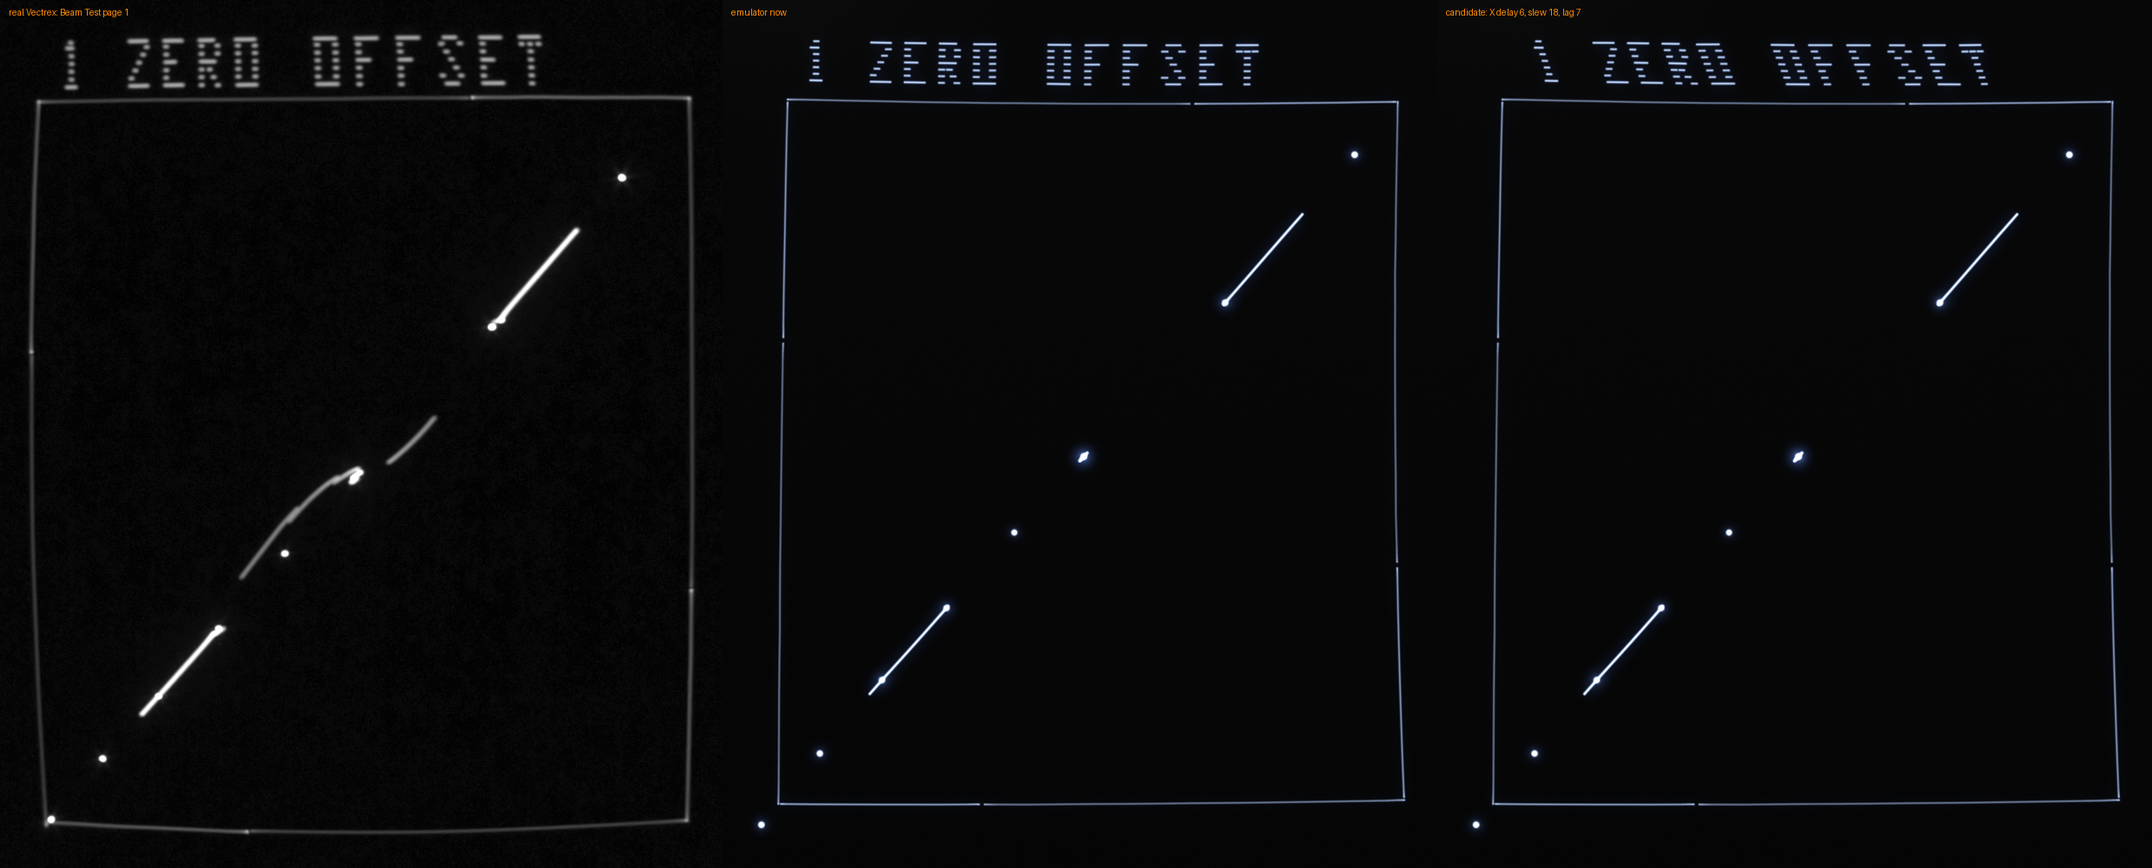
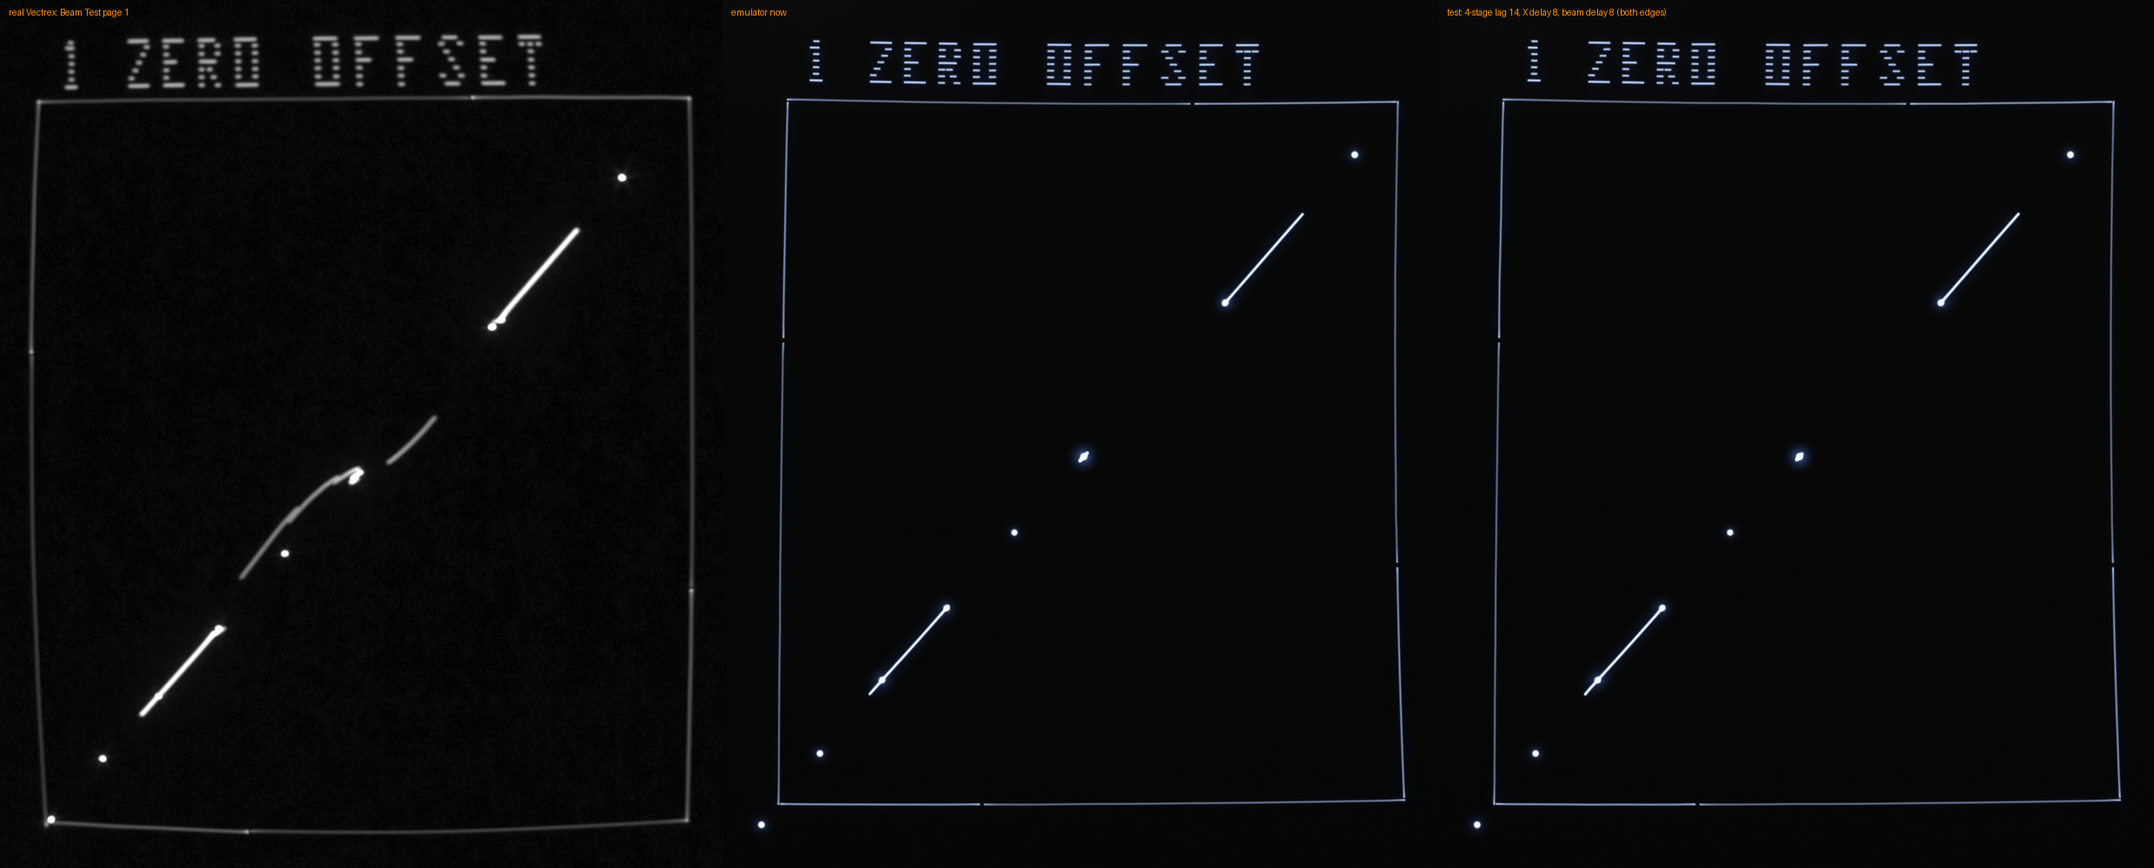
Core, test switches (off): VT_DEFLAGN up to 6 equal lag stages, VT_LAGBOX (a box-shaped response); VT_DEFLAGN is read where the unit's setting gives the lag. tools/photo_match: corner roundness and the Gap Test's joins measured on rendered frames as on the photos (cornerm, gapm, cgrid) - the Corner 

Changed region(s): [[0.6836, 0.0, 0.9322, 0.124], [0.3418, 0.0, 0.3729, 0.031]]

diff --git a/tools/photo_match/cornerm.py b/tools/photo_match/cornerm.py
@@ -1,0 +1,58 @@
+"""a corner's roundness measured on a picture - the owner's photo and the emulator's rendered frame alike:
+the figure's ridge, a straight line through each leg's outer part, their meeting point I; cut = the ridge's nearest
+distance to I, as a share of the leg's length (0 = sharp). The render is blurred to the photo's line width first."""
+import numpy as np
+from scipy import ndimage as nd
+def figures(img, roi, thr=0.25, minpix=150):
+    """connected figures inside roi (y0, y1, x0, x1): list of (cy, cx, sub-image, origin)"""
+    y0, y1, x0, x1 = roi; g = img[y0:y1, x0:x1]; s = nd.gaussian_filter(g, 1.5); m = s > thr * np.percentile(s, 99.5)
+    m = nd.binary_dilation(m, iterations=3); lab, n = nd.label(m); out = []
+    for i, sl in enumerate(nd.find_objects(lab)):
+        if (lab[sl] == i + 1).sum() < minpix: continue
+        a, b = sl; pad = 12; ya, yb, xa, xb = max(0, a.start - pad), min(g.shape[0], a.stop + pad), max(0, b.start - pad), min(g.shape[1], b.stop + pad)
+        sub = g[ya:yb, xa:xb] * (nd.binary_dilation(lab[ya:yb, xa:xb] == i + 1, iterations=8))
+        out.append(((ya + yb) / 2 + y0, (xa + xb) / 2 + x0, sub, (ya + y0, xa + x0)))
+    return out
+def ridge(sub, thr=0.15):
+    s = nd.gaussian_filter(sub, 1.2); m = s > thr * s.max()
+    gy, gx = np.gradient(nd.gaussian_filter(sub, 2.5))
+    Jxx = nd.gaussian_filter(gx * gx, 3); Jyy = nd.gaussian_filter(gy * gy, 3); Jxy = nd.gaussian_filter(gx * gy, 3)
+    ang = 0.5 * np.arctan2(2 * Jxy, Jxx - Jyy); horiz = abs(np.cos(ang)) > abs(np.sin(ang))
+    hx = (s >= np.roll(s, 1, 1)) & (s >= np.roll(s, -1, 1)); hy = (s >= np.roll(s, 1, 0)) & (s >= np.roll(s, -1, 0))
+    yy, xx = np.nonzero(m & np.where(horiz, hx, hy))
+    # sub-pixel: the parabola's top across the line
+    X = xx.astype(float); Y = yy.astype(float)
+    for k in range(len(xx)):
+        y, x = yy[k], xx[k]
+        if 0 < x < s.shape[1] - 1 and 0 < y < s.shape[0] - 1:
+            if horiz[y, x]: a, b, c = s[y, x - 1], s[y, x], s[y, x + 1]; d = a - 2 * b + c; X[k] += 0.5 * (a - c) / d if d < 0 else 0
+            else: a, b, c = s[y - 1, x], s[y, x], s[y + 1, x]; d = a - 2 * b + c; Y[k] += 0.5 * (a - c) / d if d < 0 else 0
+    return np.stack([X, Y], 1), s[yy, xx]
+def tls(P):
+    c = P.mean(0); u, s, vt = np.linalg.svd(P - c); return c, vt[0]
+def measure(sub, far=0.5):
+    P, w = ridge(sub)
+    if len(P) < 30: return None
+    # the ends: the two ridge points farthest apart (via the hull's extremes along the main axes)
+    c, d = tls(P); t = (P - c) @ d; A = P[np.argmin(t)]; B = P[np.argmax(t)]
+    n = np.array([-(B - A)[1], (B - A)[0]]); n /= np.linalg.norm(n); h = (P - A) @ n
+    C = P[np.argmax(abs(h))]
+    if abs(h).max() < 0.04 * np.linalg.norm(B - A): return dict(cut=0.0, leg=np.linalg.norm(B - A) / 2, angle=180.0, width=width(sub, P))
+    out = []
+    for E in (A, B):
+        ax = (E - C); L = np.linalg.norm(ax); ax /= L; s_ = (P - C) @ ax; perp = abs((P - C) @ np.array([-ax[1], ax[0]]))
+        m = (s_ > far * L) & (perp < 0.35 * L)
+        if m.sum() < 6: return None
+        out.append(tls(P[m]))
+    (c1, d1), (c2, d2) = out
+    M = np.array([d1, -d2]).T
+    if abs(np.linalg.det(M)) < 1e-6: return None
+    k = np.linalg.solve(M, c2 - c1); I = c1 + k[0] * d1
+    cut = np.hypot(*(P - I).T).min(); leg = 0.5 * (np.linalg.norm(A - I) + np.linalg.norm(B - I))
+    ang = np.degrees(np.arccos(np.clip(abs(d1 @ d2), 0, 1)))
+    return dict(cut=cut, leg=leg, angle=ang, width=width(sub, P), I=I, A=A, B=B, la=np.linalg.norm(A - I), lb=np.linalg.norm(B - I))
+def width(sub, P):
+    """the line's full width at half height (px): the picture's light per ridge length / its peak"""
+    s = nd.gaussian_filter(sub, 0.7); pk = np.median([s[int(round(y)), int(round(x))] for x, y in P[::3]])
+    # area of the pixels above half the ridge's level / the ridge's length
+    ln = max(len(P), 1) * 1.0; return (s > 0.5 * pk).sum() / ln * 1.0

diff --git a/src/core/vecx.c b/src/core/vecx.c
@@ -1858,7 +1858,10 @@ static void alg_sstep_full (void)
 	alg_curr_y += sig_dy;
 	prot_step (sig_blank == 1 && (alg_zsh & 0x80) == 0 && (alg_zsh & 0x7f) != 0);   /* (the deflection protect: see prot_step) */
 	alg_cycles++;
-	if (vt_lag < 0) { const char *z = getenv ("VT_DEFLAG"); vt_lag = z ? atof (z) : LAG_TAU; z = getenv ("VT_DEFLAGN"); vt_lag_n = z ? atoi (z) : LAG_N; z = getenv ("VT_DEFLAGSPLIT"); if (z) lag_split_k = atof (z); }
+	{ static int lag_env; static double lag_force = -1;      /* (VT_DEFLAG / VT_DEFLAGN given: they win over the frontend's unit
+	   * setting (analog 9) - tests in the app and the libretro core, where the setting arrived first and the variables were never read) */
+	  if (!lag_env) { const char *z = getenv ("VT_DEFLAG"); lag_env = 1; if (z) lag_force = atof (z); z = getenv ("VT_DEFLAGN"); vt_lag_n = z ? atoi (z) : LAG_N; z = getenv ("VT_DEFLAGSPLIT"); if (z) lag_split_k = atof (z); }
+	  if (lag_force >= 0) vt_lag = lag_force; else if (vt_lag < 0) vt_lag = LAG_TAU; }
 	if (vt_lag_y < -1.5) { const char *z = getenv ("VT_DEFLAGY"); vt_lag_y = z ? atof (z) : LAG_TAU_Y; }
 	if (ofs_k < 0) { const char *z = getenv ("VT_OFSK"); ofs_k = z ? atof (z) : OFS_K; }
 	{ double ox = beam_x, oy = beam_y;
@@ -1868,12 +1871,29 @@ static void alg_sstep_full (void)
 	  double tx = alg_curr_x - sh, ty = alg_curr_y + sh;
 	  double lx = vt_lag, ly = vt_lag_y >= 0 ? vt_lag_y : vt_lag;
 	  if (lx > 0.05 || ly > 0.05) {
-		int n = vt_lag_n == 2 ? 2 : 1;
+		int n = vt_lag_n < 1 ? 1 : vt_lag_n > 6 ? 6 : vt_lag_n;   /* (VT_DEFLAGN: 1 - 6 equal stages; 3 and more: tests) */
 		double kx = lx > 0.05 ? kexp (&km_mlx, (double) n, lx) : 1.0;   /* (each stage tau / n) */
 		double ky = ly > 0.05 ? kexp (&km_mly, (double) n, ly) : 1.0;
+		static double bx_d = -2, bx_w, bx_t; static double rx[256], ry[256], bsx, bsy, box, boy; static unsigned rp; static int rinit;
+		if (bx_d < -1) { const char *z = getenv ("VT_LAGBOX"); bx_d = -1; if (z) { bx_t = 0; sscanf (z, "%lf,%lf,%lf", &bx_d, &bx_w, &bx_t); if (bx_w < 1) bx_w = 1; if (bx_w > 200) bx_w = 200; if (bx_d > 50) bx_d = 50; } }
+		if (bx_d >= 0) {   /* VT_LAGBOX=delay,width[,tau] (a test): the spot = the integrators' place averaged over `width` cycles, `delay`
+		                    * cycles ago (a response that is over after delay + width), then a short first-order lag tau */
+			int d = (int) bx_d, w = (int) bx_w;
+			if (!rinit) { rinit = 1; for (int i = 0; i < 256; i++) { rx[i] = tx; ry[i] = ty; } bsx = tx * w; bsy = ty * w; box = tx; boy = ty; }
+			rx[rp & 255] = tx; ry[rp & 255] = ty;
+			bsx += rx[(rp - d) & 255] - rx[(rp - d - w) & 255]; bsy += ry[(rp - d) & 255] - ry[(rp - d - w) & 255]; rp++;
+			if ((rp & 1023) == 0) { bsx = bsy = 0; for (int i = 1; i <= w; i++) { bsx += rx[(rp - d - i) & 255]; bsy += ry[(rp - d - i) & 255]; } }   /* (no drift) */
+			{ double k = bx_t > 0.05 ? 1.0 - exp (-1.0 / bx_t) : 1.0; box += (bsx / w - box) * k; boy += (bsy / w - boy) * k; }
+			beam_x = beam_x1 = box; beam_y = beam_y1 = boy;
+		} else
 		if (n == 2) {
 			beam_x1 += (tx - beam_x1) * kx; beam_y1 += (ty - beam_y1) * ky;
 			beam_x += (beam_x1 - beam_x) * kx; beam_y += (beam_y1 - beam_y) * ky;
+		} else if (n > 2) {
+			static double sx[6], sy[6]; static int sinit;
+			if (!sinit) { sinit = 1; for (int i = 0; i < 6; i++) { sx[i] = tx; sy[i] = ty; } }
+			{ double ix = tx, iy = ty; for (int i = 0; i < n; i++) { sx[i] += (ix - sx[i]) * kx; sy[i] += (iy - sy[i]) * ky; ix = sx[i]; iy = sy[i]; }
+			  beam_x = ix; beam_y = iy; beam_x1 = sx[0]; beam_y1 = sy[0]; }
 		} else {
 			beam_x += (tx - beam_x) * kx; beam_y += (ty - beam_y) * ky;
 		}

diff --git a/tools/photo_match/cgrid.py b/tools/photo_match/cgrid.py
@@ -1,0 +1,42 @@
+"""the Corner Test on rendered frames (the libretro core) over settings: cut / leg and second / first leg by rest, against the photo"""
+import os, sys, subprocess, numpy as np, json
+from concurrent.futures import ThreadPoolExecutor
+import cornerm_run as R
+PH_CUT = [0.122, 0.120, 0.105, 0.073, 0.044, 0.003, 0.0, 0.0]; PH_RAT = [0.66, 0.64, 0.60, 0.57, 0.58, 0.58, 0.61, 0.59]
+def tag(c): return 'c_' + '_'.join('%s%s' % (k, str(v).replace('.', 'p')) for k, v in sorted(c.items()))
+PH_DOTS = np.array([10] * 8)
+PH_DIP = [0.060, 0.051, 0.058, 0.075, 0.099, 0.132, 0.171, 0.067]
+def gap_row(t):
+    import gapm
+    a = np.load('sl_gap_p1_%s.npy' % t).max(2).astype(np.float32) / 255
+    try: m = gapm.measure(a, blur=2.0); return [x[1] for x in m], [x[3] for x in m]
+    except Exception: return [np.nan] * 8, [0] * 8
+def render(c, only='corner,gap_p1'):
+    t = tag(c)
+    if all(os.path.exists('sl_%s_%s.npy' % (o, t)) for o in only.split(',')): return t
+    e = dict(os.environ); e['ONLY'] = only; e['VT_XYZDLY'] = '%d,%d,8' % (c.get('x', 9), c.get('y', 9)); e['VT_DEFLAGN'] = str(c.get('n', 1))
+    if 'z' in c: e['VT_ZDELAY'] = str(c['z'])
+    if 'bd' in c: e['VT_LAGBOX'] = '%g,%g,%g' % (c['bd'], c['bw'], c.get('bt', 0))
+    if 'xs' in c: e['VT_XSLEW'] = str(c['xs'])
+    if 'ramp' in c: e['VT_RAMPDLY'] = c['ramp']
+    e['LROPT'] = 'vectrex_emu_unit_lagx=%.1f,vectrex_emu_unit_lagy=%.1f' % (c.get('l', 6), c.get('l', 6)) + (',vectrex_emu_unit_beamoff=%.1f' % c['bo'] if 'bo' in c else '')
+    subprocess.run([sys.executable, 'renall2.py', t], env=e, capture_output=True); return t
+def corner_row(t):
+    a = np.load('sl_corner_%s.npy' % t).max(2).astype(np.float32) / 255
+    r = R.row_table(a, (770, 905, 150, 1060), 10, 'x', t)
+    cut = [x['cut'] / x['leg'] if x else np.nan for x in r][:8]; rat = [R.ratio(x, False) if x and 'A' in x else np.nan for x in r][:8]
+    return cut, rat
+def score(cut, rat):
+    c = np.array(cut) - PH_CUT; q = np.array(rat) - PH_RAT
+    return float(np.sqrt(np.nanmean(c ** 2))), float(np.sqrt(np.nanmean(q[:6] ** 2)))
+if __name__ == '__main__':
+    cfgs = eval(sys.argv[1])
+    with ThreadPoolExecutor(4) as ex: tags = list(ex.map(render, cfgs))
+    out = []
+    for c, t in zip(cfgs, tags):
+        cut, rat = corner_row(t); sc = score(cut, rat); dip, dots = gap_row(t); dg = float(np.sqrt(np.nanmean((np.array(dip) - PH_DIP) ** 2))) if len(dip) == 8 else 9.9
+        dd = float(np.mean(np.abs(np.clip(np.array(dots), 0, 10) - PH_DOTS))); out.append((sc[0] / 0.013 + sc[1] / 0.05 + dg / 0.02 + dd / 2.0, c, cut, rat, sc, dip, dg, dots))
+    print('%-40s cut: %s | leg ratio: %s' % ('photo', ' '.join('%.3f' % v for v in PH_CUT), ' '.join('%.2f' % v for v in PH_RAT[:6])))
+    print('%-40s dips: %s' % ('photo', ' '.join('%.3f' % v for v in PH_DIP)))
+    for s, c, cut, rat, sc, dip, dg, dots in sorted(out, key=lambda o: o[0])[:int(os.environ.get('TOP', '12'))]:
+        print('%-40s cut: %s | leg ratio: %s | cut rms %.4f ratio rms %.3f | dips %s rms %.3f | dots %s' % (' '.join('%s=%s' % kv for kv in sorted(c.items())), ' '.join('%.3f' % v for v in cut), ' '.join('%.2f' % v for v in rat[:6]), sc[0], sc[1], ' '.join('%.3f' % v for v in dip), dg, ' '.join('%d' % v for v in dots)))

diff --git a/tools/photo_match/gapm.py b/tools/photo_match/gapm.py
@@ -1,0 +1,44 @@
+"""Gap Test page 1 measured on a picture (photo or rendered frame): per row (scales 6 - 13) the dark share of the line
+between its first and last lit place, and the line's length relative to the longest row"""
+import numpy as np, sys
+from scipy import ndimage as nd
+def rows(img, n=8):
+    """the n long horizontal lines: (y, x0, x1)"""
+    s = nd.gaussian_filter(img, 2); m = s > 0.3 * np.percentile(s, 99.7)
+    prof = nd.gaussian_filter1d(m.sum(1).astype(float), 4); pk = [y for y in range(31, len(prof) - 31) if prof[y] == prof[y - 30:y + 31].max() and prof[y] > 0.3 * prof.max()]
+    pk = sorted(sorted(pk, key=lambda y: -prof[y])[:n]); return pk
+def measure(img, blur=0.0):
+    if blur > 0: img = nd.gaussian_filter(img, blur)
+    out = []
+    for y in rows(img):
+        band = img[max(0, y - 25):y + 26]; cols = band.max(0)
+        # follow a tilted line: the band's max per column is enough
+        e = nd.gaussian_filter1d(cols, 1.0); lev = np.percentile(e, 92); lit = e > 0.3 * lev
+        xs = np.nonzero(lit)[0]
+        # drop the scale's label at the left: the line = the longest run group; take from the first lit column after the widest dark stretch in the first 20 %
+        x0, x1 = xs[0], xs[-1]; seg = lit[x0:x1 + 1]
+        d = np.diff(np.concatenate([[1], seg.astype(int), [1]])); st = np.nonzero(d == -1)[0]; en = np.nonzero(d == 1)[0]
+        gaps = [(a, b - a) for a, b in zip(st, en)]
+        big = [g for g in gaps if g[1] > 0.03 * len(seg) and g[0] < 0.25 * len(seg)]
+        if big: off = max(big, key=lambda g: g[1]); x0 = x0 + off[0] + off[1]; seg = lit[x0:x1 + 1]
+        q = np.clip(e[x0:x1 + 1] / np.median(e[x0:x1 + 1]), 0, 1); deep = q < 0.6
+        q2 = e[x0:x1 + 1] / np.median(e[x0:x1 + 1]); hi = nd.gaussian_filter1d(q2, 1.0) > 1.10
+        out.append((y, x1 - x0, float((1 - q).mean()), int((np.diff(deep.astype(int)) == 1).sum()), int((np.diff(hi.astype(int)) == 1).sum())))
+    L = max(o[1] for o in out)
+    return [(o[1] / L, o[2], o[3], o[4]) for o in out]
+def photo():
+    g = np.load('oct/Gaps.npy').astype(np.float32); best = None
+    for k in (1, 3):
+        r = np.rot90(g, k)
+        try: m = measure(r)
+        except Exception: continue
+        lens = [x[0] for x in m]
+        sc = np.sum(np.diff(lens) > 0) + (len(m) == 8) * 3
+        if best is None or sc > best[0]: best = (sc, k, m)
+    return best
+if __name__ == '__main__':
+    sc, k, m = photo(); print('photo (rotation %d, ordered %d)' % (k, sc))
+    print('%-28s length: %s | dark share: %s | gaps: %s' % ('photo', ' '.join('%.2f' % x[0] for x in m), ' '.join('%.3f' % x[1] for x in m), ' '.join('%2d' % x[2] for x in m)) + ' | dots: ' + ' '.join('%2d' % x[3] for x in m))
+    for t in sys.argv[1:]:
+        a = np.load('sl_gap_p1_%s.npy' % t).max(2).astype(np.float32) / 255; m = measure(a, blur=2.0)
+        print('%-28s length: %s | dark share: %s | gaps: %s' % (t, ' '.join('%.2f' % x[0] for x in m), ' '.join('%.3f' % x[1] for x in m), ' '.join('%2d' % x[2] for x in m)) + ' | dots: ' + ' '.join('%2d' % x[3] for x in m))

diff --git a/tools/photo_match/cornerm_run.py b/tools/photo_match/cornerm_run.py
@@ -1,0 +1,26 @@
+import numpy as np, sys
+from scipy import ndimage as nd
+import cornerm as C
+def row_table(img, roi, n, order, name, blur=0.0):
+    if blur > 0: img = nd.gaussian_filter(img, blur)
+    F = C.figures(img, roi); F = [f for f in F]
+    key = (lambda f: f[0]) if order in ('y', '-y') else (lambda f: f[1])
+    F = sorted(F, key=key, reverse=order.startswith('-'))
+    if len(F) != n: print('  %s: %d figures found, %d expected' % (name, len(F), n))
+    R = [C.measure(f[2]) for f in F[:n]]
+    return R
+def ratio(r, photo):
+    # second leg / first leg: the first leg's end = the smaller x in the photo, the smaller y in the render
+    k = 0 if photo else 1; a, b = (r['la'], r['lb']) if r['A'][k] < r['B'][k] else (r['lb'], r['la']); return b / a
+def show(name, R):
+    print('%-34s second / first leg: %s' % ('', ' '.join('%5.2f' % ratio(r, name.startswith('photo')) if r and 'A' in r else '  -  ' for r in R)))
+    print('%-34s %s   width %.1f px' % (name, ' '.join('%5.3f' % (r['cut'] / r['leg']) if r else '  -  ' for r in R), np.median([r['width'] for r in R if r])))
+if __name__ == '__main__':
+    g = np.load('oct/Cornertest.npy').astype(np.float32)
+    # the photo: figures run bottom (rest 0) to top (rest 96); two columns of figures (x ~ 2560-2920 and 2980-3320)
+    for nm, roi in (('photo row $7F', (400, 2900, 2520, 2950)), ('photo row $5F', (400, 2900, 2960, 3340))):
+        show(nm, row_table(g, roi, 10, '-y', nm))
+    for tag in sys.argv[1:]:
+        a = np.load('sl_corner_%s.npy' % tag).max(2).astype(np.float32) / 255
+        for nm, roi in (('%s row $7F' % tag, (770, 905, 150, 1060)), ('%s row $5F' % tag, (905, 1010, 150, 1060))):
+            show(nm, row_table(a, roi, 10, 'x', nm))

diff --git a/tools/photo_match/renall2.py b/tools/photo_match/renall2.py
@@ -15,12 +15,13 @@ JOBS = [  # name, rom, [(button, presses)], idle frames before the grab
     ('gap_p3', T + r'\Tests\Gap Test.bin', [('b3', 1)], 120),
     ('lag', T + r'\Tests\Lag Test.bin', [], 120),
     ('vectorblade', T + r'\Vectorblade.bin', [], 400),
+    ('sw_p1', T + r'\Tests\Switch Test.bin', [('b1', 1)], 120), ('sw_p2', T + r'\Tests\Switch Test.bin', [('b2', 1)], 120), ('sw_p3', T + r'\Tests\Switch Test.bin', [('b3', 1)], 120),
     ('dot_p3', T + r'\Tests\Dot Test.bin', [('b3', 1)], 120), ('dot_p4', T + r'\Tests\Dot Test.bin', [('b4', 1)], 120),
 ]
-for name, rom, presses, idle in JOBS:
+for name, rom, presses, idle in [j for j in JOBS if not os.environ.get('ONLY') or j[0] in os.environ['ONLY'].split(',')]:
     h = Host(S + r'\cb\sl.dll', 'G:/AI/Vectrex_EMU/libretro/dist/pkg/system', S + r'\save',
              options={'vectrex_emu_deck': 'off', 'vectrex_emu_rotate': 'off', 'vectrex_emu_skip_intro': 'on', 'vectrex_emu_wobble': 'off',
-                      'vectrex_emu_bending': 'off', 'vectrex_emu_overlay': 'off', 'vectrex_emu_look': look}, size=(1200, 1500))
+                      'vectrex_emu_bending': 'off', 'vectrex_emu_overlay': 'off', 'vectrex_emu_look': look, **dict(kv.split('=') for kv in os.environ.get('LROPT', '').split(',') if kv)}, size=(1200, 1500))
     h.load(rom)
     for i in range(60): h.run()
     for b, n in presses:

diff --git a/tools/photo_match/ctdump.py b/tools/photo_match/ctdump.py
@@ -1,0 +1,14 @@
+import sys, os, numpy as np
+os.environ.setdefault('VT_BEAMMODE', '1')
+sys.path.insert(0, r'G:\AI\Vectrex_EMU\src\frontend'); os.chdir(r'G:\AI\Vectrex_EMU')
+import vectrex_emu as V
+c = V.Core(r'G:\AI\Vectrex_EMU\testcart\corner_test.bin', False, 'auto', 'off', None, None, None, False)
+for i in range(960): L = c.frame(0, 0, 0, 0)[0]
+L = sorted(list(L), key=lambda l: l[6])
+A = np.array([(l[0] / 134.0, l[1] / 134.0, l[2] / 134.0, l[3] / 134.0, int(l[4]) & 255, l[5] / 8.0, l[6]) for l in L])
+R = A[A[:, 4] == 127]; g = np.nonzero(np.diff(R[:, 6]) > 40)[0]; segs = [q for q in np.split(R, g + 1) if np.ptp(q[:, 1]) > 8 and np.ptp(q[:, 0]) > 3]
+if len(sys.argv) < 2:
+    for i, q in enumerate(segs): print(i, len(q), 'x %.0f..%.0f y %.0f..%.0f  T %.0f' % (q[:, 0].min(), q[:, 0].max(), q[:, 1].min(), q[:, 1].max(), q[-1, 6] - q[0, 6]))
+else:
+    s = segs[int(sys.argv[1])]; t0 = s[0, 6]
+    for x0, y0, x1, y1, z, d, t in s: print('%5.0f %4.1f  vx %+.3f vy %+.3f   x %.2f y %.2f' % (t - t0, d, (x1 - x0) / max(d, 1e-9), (y1 - y0) / max(d, 1e-9), x1, y1))

diff --git a/tools/photo_match/compose3.py b/tools/photo_match/compose3.py
@@ -26,6 +26,6 @@ for name, ph, title in PAIRS:
         q = np.corrcoef(cs.ravel(), rs.ravel())[0, 1]
         if best is None or q > best[0]: best = (q, cc)
     tiles = [fit(Image.fromarray((best[1] * 255).astype(np.uint8)).convert('RGB'), 1000), fit(Image.fromarray(now[a:b, c:e]), 1000), fit(Image.fromarray(cand[a:b, c:e]), 1000)]
-    for t, n in zip(tiles, ['real Vectrex: ' + title, 'emulator now', 'candidate: X delay 6, slew 18, lag 7']): ImageDraw.Draw(t).text((10, 8), n, fill=(255, 140, 0))
+    for t, n in zip(tiles, ['real Vectrex: ' + title, 'emulator now', 'proposed: 4-stage lag 14, X delay 8, beam-off delay 6']): ImageDraw.Draw(t).text((10, 8), n, fill=(255, 140, 0))
     im = np.concatenate([np.array(t) for t in tiles], 1)
     Image.fromarray(im).save(r'G:\AI\Vectrex_EMU\testcart\compare\slew_%s.png' % name); print(name, im.shape)

diff --git a/tools/photo_match/ctdump2.py b/tools/photo_match/ctdump2.py
@@ -1,0 +1,9 @@
+import sys, os, numpy as np
+sys.path.insert(0, r'G:\AI\Vectrex_EMU\src\frontend'); os.chdir(r'G:\AI\Vectrex_EMU')
+import vectrex_emu as V
+c = V.Core(r'G:\AI\Vectrex_EMU\testcart\corner_test.bin', False, 'auto', 'off', None, None, None, False)
+for i in range(960): L = c.frame(0, 0, 0, 0)[0]
+L = sorted(list(L), key=lambda l: l[6])
+print(len(L[0]), 'fields')
+R = [l for l in L if 145 * 134 < l[0] < 158 * 134 and 175 * 134 < l[1] < 195 * 134]
+for l in R[:40]: print(' '.join('%9.1f' % v if isinstance(v, float) else '%7d' % v for v in l))

diff --git a/tools/photo_match/README.md b/tools/photo_match/README.md
@@ -136,3 +136,23 @@ logo and the Dot Test's corners with a candidate):
   change is small (rest 0 and 5 a little rounder). The numbers above (Switch Test cuts, logo, Dot Test corners) came from
   the headless core, where the slew was active - they stand. Lesson: check a core switch in the build that makes the
   pictures, and look at corners at full size.
+
+## Corner roundness on rendered frames (2026-11-21, late)
+
+`cornerm.py`: a corner's cut as a share of its leg, measured the same way on the photo and on the emulator's rendered
+frame (`renall2.py`: the libretro core through tools/lrhost.py; `cornerm_run.py`, `cgrid.py`: grids; `gapm.py`: the Gap
+Test's joins - dip index and dots). In the libretro core and the app the lag comes from the unit option (analog 9), not
+from VT_DEFLAG: `LROPT=vectrex_emu_unit_lagx=..,vectrex_emu_unit_lagy=..`; VT_DEFLAGN (1-6 stages) and VT_LAGBOX are read.
+
+- Corner Test, cut / leg at rests 0 / 5 / 8 / 12 / 16 / 24: **photo 0.122 / 0.120 / 0.105 / 0.073 / 0.044 / 0.003**; today
+  0.092 / 0.058 / 0.052 / 0.036 / 0.026 / 0.019. The roundness follows the rest's length (the Dot Test's page 4 alike; the
+  Switch Test's corners with a rest of 32 are sharp whenever the flip was written): the spot settles slowly after a stop.
+- A lag of 4 equal stages, 14 cycles in all, X delay 8, the beam 8 cycles later (both edges): 0.120 / 0.110 / 0.090 / 0.064 /
+  0.045 / 0.023, the legs' ratio and the Gap Test's dips as the photo's - **but the dots at the joins are gone** (the photo,
+  `testcart/compare/gap_joins_zoom.png`: a bright dot at each piece's START, the line fading before the gap).
+- The beam's switch-off alone later (6 cycles): corners, legs, dips and dots all fit - **but the BIOS font smears into
+  bars** (the owner saw it). Rejected.
+- No beam delay, lag 10-14 in 3-5 stages: joins and font right, corners at rests 5-16 still too sharp (0.06-0.07 at rest 5).
+- A box-shaped response (VT_LAGBOX): no better than the stages.
+So no setting of this model (stages + pure delays) gives the corners, the joins' dots and the font together. Nothing is
+the default; VT_XSLEW, VT_DEFLAGN > 2, VT_LAGBOX are test switches.
